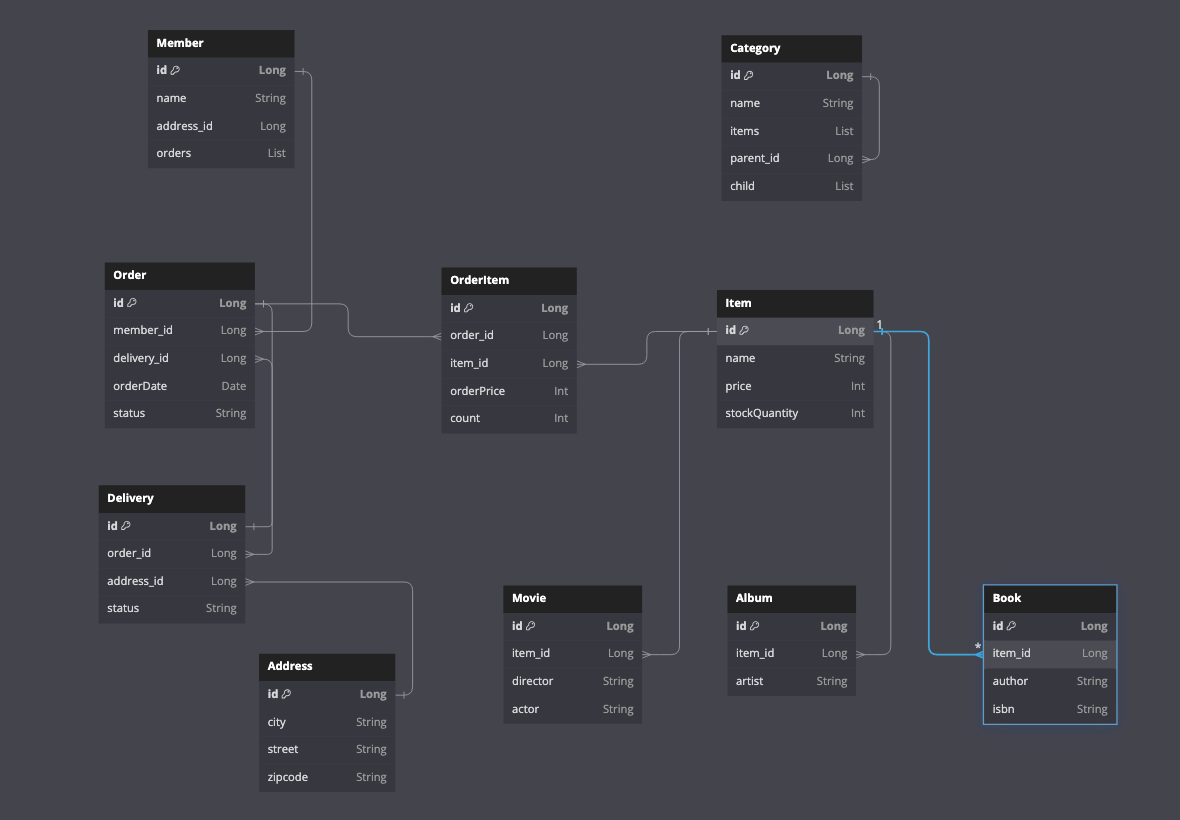
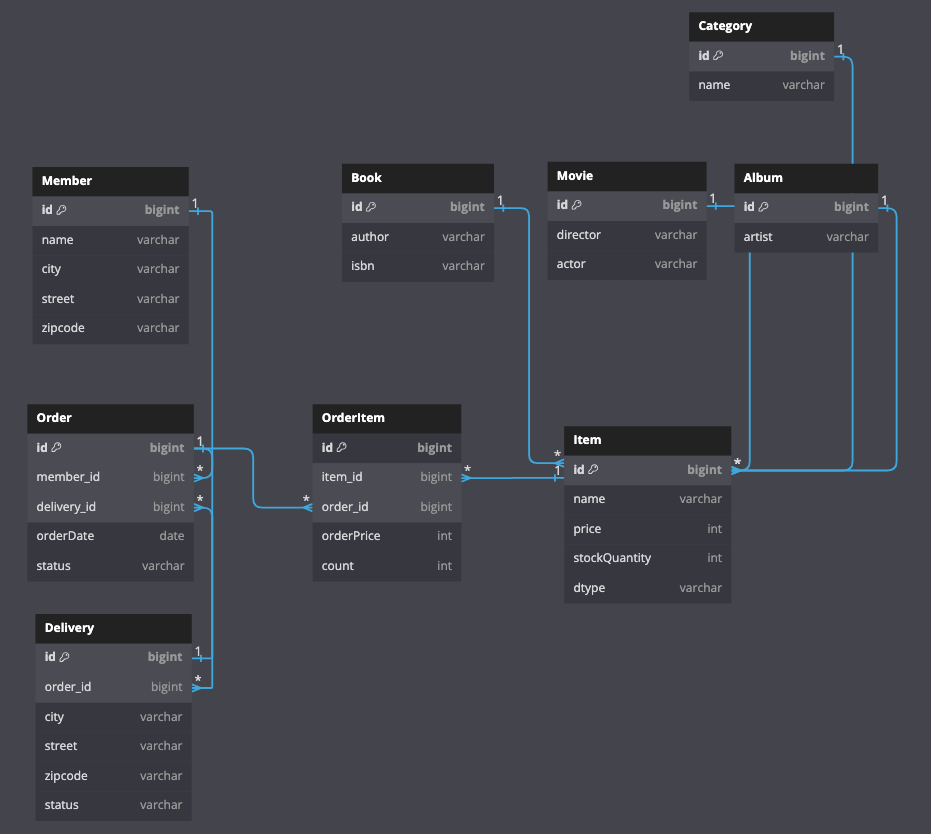
Entity 생성

diff --git a/src/main/java/jpabook/jpashop/domain/Category.java b/src/main/java/jpabook/jpashop/domain/Category.java
@@ -1,0 +1,39 @@
+package jpabook.jpashop.domain;
+
+import jpabook.jpashop.domain.item.Item;
+import lombok.AllArgsConstructor;
+import lombok.Builder;
+import lombok.Getter;
+import lombok.NoArgsConstructor;
+
+import javax.persistence.*;
+import java.util.ArrayList;
+import java.util.List;
+
+@Getter
+@NoArgsConstructor
+@AllArgsConstructor
+@Builder
+@Entity
+public class Category {
+    @Id
+    @GeneratedValue(strategy = GenerationType.IDENTITY)
+    @Column(name = "category_id")
+    private Long id;
+
+    private String name;
+
+    @ManyToMany
+    @JoinTable(name = "category_item",
+            joinColumns = @JoinColumn(name = "category_id"),
+            inverseJoinColumns = @JoinColumn(name = "item_id")
+    )
+    private List<Item> items = new ArrayList<>();
+
+    @ManyToOne
+    @JoinColumn(name = "parent_id")
+    private Category parent;
+
+    @OneToMany(mappedBy = "parent")
+    private List<Category> child = new ArrayList<>();
+}

diff --git a/src/main/java/jpabook/jpashop/domain/Order.java b/src/main/java/jpabook/jpashop/domain/Order.java
@@ -1,0 +1,40 @@
+package jpabook.jpashop.domain;
+
+import lombok.AllArgsConstructor;
+import lombok.Builder;
+import lombok.Getter;
+import lombok.NoArgsConstructor;
+
+import javax.persistence.*;
+import java.time.LocalDateTime;
+import java.util.ArrayList;
+import java.util.List;
+
+@Getter
+@NoArgsConstructor
+@AllArgsConstructor
+@Builder
+@Entity
+@Table(name = "orders")
+public class Order {
+    @Id
+    @GeneratedValue(strategy = GenerationType.IDENTITY)
+    @Column(name = "order_id")
+    private Long id;
+
+    @ManyToOne
+    @JoinColumn(name = "member_id")
+    private Member member;
+
+    @OneToMany(mappedBy = "order")
+    private List<OrderItem> orderItems = new ArrayList<>();
+
+    @OneToOne
+    @JoinColumn(name = "delivery_id")
+    private Delivery delivery;
+
+    private LocalDateTime orderDate;
+
+    @Enumerated(EnumType.STRING)
+    private OrderStatus status;
+}

diff --git a/src/main/java/jpabook/jpashop/domain/OrderItem.java b/src/main/java/jpabook/jpashop/domain/OrderItem.java
@@ -1,0 +1,31 @@
+package jpabook.jpashop.domain;
+
+import jpabook.jpashop.domain.item.Item;
+import lombok.AllArgsConstructor;
+import lombok.Builder;
+import lombok.Getter;
+import lombok.NoArgsConstructor;
+
+import javax.persistence.*;
+
+@Getter
+@NoArgsConstructor
+@AllArgsConstructor
+@Builder
+@Entity
+public class OrderItem {
+    @Id
+    @GeneratedValue(strategy = GenerationType.IDENTITY)
+    private Long id;
+
+    @ManyToOne
+    @JoinColumn(name = "order_id")
+    private Order order;
+
+    @ManyToOne
+    @JoinColumn(name = "item_id")
+    private Item item;
+
+    private int orderPrice;
+    private int count; // 주문 수량
+}

diff --git a/src/main/java/jpabook/jpashop/domain/item/Item.java b/src/main/java/jpabook/jpashop/domain/item/Item.java
@@ -1,0 +1,28 @@
+package jpabook.jpashop.domain.item;
+
+import jpabook.jpashop.domain.Category;
+import lombok.Getter;
+
+import javax.persistence.*;
+import java.util.ArrayList;
+import java.util.List;
+
+@Getter
+@Entity
+@Inheritance(strategy = InheritanceType.SINGLE_TABLE)
+@DiscriminatorColumn(name = "dtype")
+public abstract class Item {
+    @Id
+    @GeneratedValue(strategy = GenerationType.IDENTITY)
+    @Column(name = "item_id")
+    private Long id;
+
+    private String name;
+    private int price;
+    private int stockQuantity;
+
+    @ManyToMany(mappedBy = "items")
+    private List<Category> categories = new ArrayList<>();
+
+}
+

diff --git a/src/main/java/jpabook/jpashop/domain/Member.java b/src/main/java/jpabook/jpashop/domain/Member.java
@@ -1,0 +1,32 @@
+package jpabook.jpashop.domain;
+
+
+import lombok.AllArgsConstructor;
+import lombok.Builder;
+import lombok.Getter;
+import lombok.NoArgsConstructor;
+
+import javax.persistence.*;
+import java.util.ArrayList;
+import java.util.List;
+
+@Getter
+@NoArgsConstructor
+@AllArgsConstructor
+@Builder
+@Entity
+public class Member {
+    @Id
+    @GeneratedValue(strategy = GenerationType.IDENTITY)
+    @Column(name = "member_id")
+    private Long id;
+
+    private String name;
+
+    @Embedded
+    private Address address;
+
+    @OneToMany(mappedBy = "member")
+    private List<Order> orders = new ArrayList<>();
+
+}

diff --git a/src/main/java/jpabook/jpashop/domain/Delivery.java b/src/main/java/jpabook/jpashop/domain/Delivery.java
@@ -1,0 +1,29 @@
+package jpabook.jpashop.domain;
+
+import lombok.AllArgsConstructor;
+import lombok.Builder;
+import lombok.Getter;
+import lombok.NoArgsConstructor;
+
+import javax.persistence.*;
+
+@Getter
+@NoArgsConstructor
+@AllArgsConstructor
+@Builder
+@Entity
+public class Delivery {
+    @Id
+    @GeneratedValue(strategy = GenerationType.IDENTITY)
+    @Column(name = "delivery_id")
+    private Long id;
+
+    @OneToOne(mappedBy = "delivery")
+    private Order order;
+
+    @Embedded
+    private Address address;
+
+    @Enumerated(EnumType.STRING)
+    private DeliveryStatus deliveryStatus;
+}

diff --git a/src/main/java/jpabook/jpashop/domain/item/Book.java b/src/main/java/jpabook/jpashop/domain/item/Book.java
@@ -1,0 +1,23 @@
+package jpabook.jpashop.domain.item;
+
+import lombok.AllArgsConstructor;
+import lombok.Builder;
+import lombok.Getter;
+import lombok.NoArgsConstructor;
+
+import javax.persistence.DiscriminatorValue;
+import javax.persistence.Entity;
+
+@Getter
+@NoArgsConstructor
+@AllArgsConstructor
+@Builder
+@Entity
+@DiscriminatorValue("B")
+public class Book extends Item {
+    private String author;
+    private String isbn;
+
+}
+
+

diff --git a/src/main/java/jpabook/jpashop/domain/item/Movie.java b/src/main/java/jpabook/jpashop/domain/item/Movie.java
@@ -1,0 +1,20 @@
+package jpabook.jpashop.domain.item;
+
+import lombok.AllArgsConstructor;
+import lombok.Builder;
+import lombok.Getter;
+import lombok.NoArgsConstructor;
+
+import javax.persistence.DiscriminatorValue;
+import javax.persistence.Entity;
+
+@Getter
+@NoArgsConstructor
+@AllArgsConstructor
+@Builder
+@Entity
+@DiscriminatorValue("M")
+public class Movie extends Item {
+    private String director;
+    private String actor;
+}

diff --git a/src/main/java/jpabook/jpashop/domain/item/Album.java b/src/main/java/jpabook/jpashop/domain/item/Album.java
@@ -1,0 +1,21 @@
+package jpabook.jpashop.domain.item;
+
+import lombok.AllArgsConstructor;
+import lombok.Builder;
+import lombok.Getter;
+import lombok.NoArgsConstructor;
+
+import javax.persistence.DiscriminatorValue;
+import javax.persistence.Entity;
+
+
+@Getter
+@NoArgsConstructor
+@AllArgsConstructor
+@Builder
+@Entity
+@DiscriminatorValue("A")
+public class Album extends Item {
+    private String artist;
+    private String etc;
+}

diff --git a/src/main/java/jpabook/jpashop/domain/Address.java b/src/main/java/jpabook/jpashop/domain/Address.java
@@ -1,0 +1,19 @@
+package jpabook.jpashop.domain;
+
+import lombok.AllArgsConstructor;
+import lombok.Builder;
+import lombok.Getter;
+import lombok.NoArgsConstructor;
+
+import javax.persistence.Embeddable;
+
+@Embeddable
+@NoArgsConstructor
+@AllArgsConstructor
+@Builder
+@Getter
+public class Address {
+    private String city;
+    private String street;
+    private String zipcode;
+}

diff --git a/src/test/java/jpabook/jpashop/JpashopApplicationTests.java b/src/test/java/jpabook/jpashop/JpashopApplicationTests.java
@@ -5,12 +5,10 @@ import org.junit.runner.RunWith;
 import org.springframework.boot.test.context.SpringBootTest;
 import org.springframework.test.context.junit4.SpringRunner;
 
-@RunWith(SpringRunner.class)
 @SpringBootTest
 public class JpashopApplicationTests {
 
 	@Test
 	public void contextLoads() {
 	}
-
 }

diff --git a/src/main/java/jpabook/jpashop/domain/DeliveryStatus.java b/src/main/java/jpabook/jpashop/domain/DeliveryStatus.java
@@ -1,0 +1,5 @@
+package jpabook.jpashop.domain;
+
+public enum DeliveryStatus {
+    READY, COMP
+}
